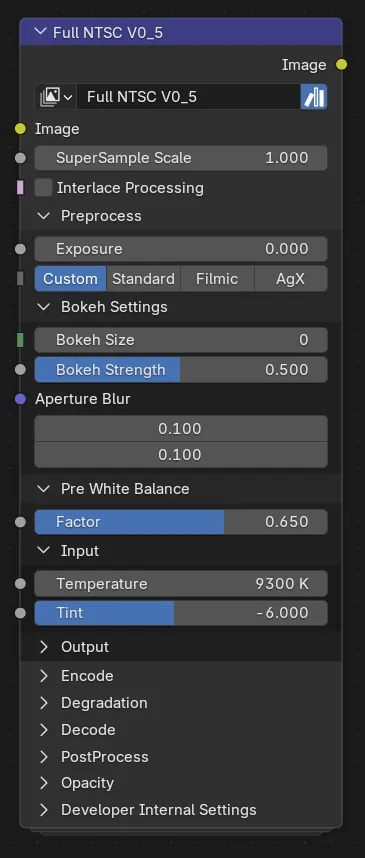
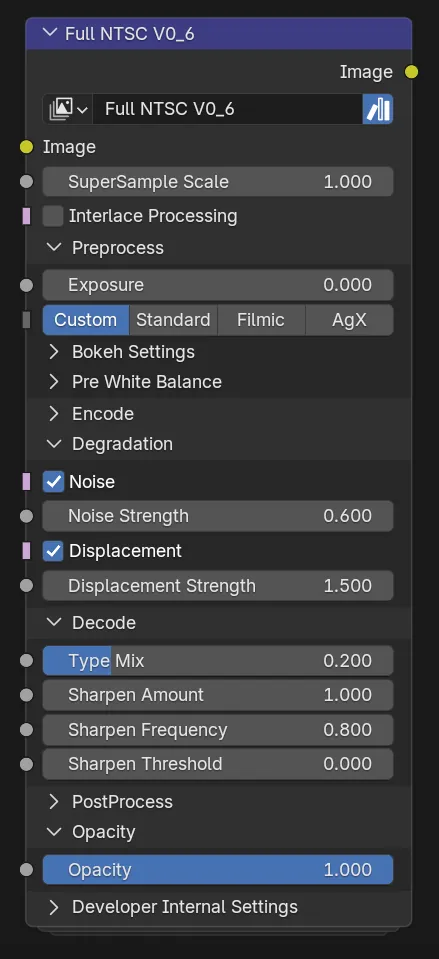
new compositor images part 2

diff --git a/js/data/compositor.js b/js/data/compositor.js
@@ -27,9 +27,30 @@ window.NODEGROUPS.push(
     note: "This nodegroup also exposes an Advanced sub-panel for finer control. Expand it in the node itself; the sockets above cover the top-level controls most users will touch."
   },
   {
+    id: "retro-bloom-advanced",
+    category: "compositor",
+    name: "Retro Bloom Advanced",
+    tagline: "Extended bloom control stack",
+    description: "TEMPLATE — replace with final description. A more advanced bloom nodegroup with finer-grained control than the base Retro Bloom, for shots that need extra dialing-in.",
+    images: {
+      preview: "images/compositor/retro-bloom-advanced-node.webp"
+    },
+    inputs: [
+      { name:"Image", type:"image", desc:"TEMPLATE — the source image or render to bloom." },
+      { name:"Threshold", type:"value", desc:"TEMPLATE — brightness level above which the bloom starts picking up highlights." },
+      { name:"Blend", type:"value", desc:"TEMPLATE — controls the strength of the bloom effect." },
+      { name:"Falloff", type:"value", desc:"TEMPLATE — controls the curve shape of the bloom." },
+      { name:"Bloom Color", type:"color", desc:"TEMPLATE — changes the color of the bloom." }
+    ],
+    outputs: [
+      { name:"Image", type:"image", desc:"TEMPLATE — the source image with the advanced bloom effect applied." }
+    ],
+    note: "Placeholder entry — swap in the real slider names, defaults, and a node preview screenshot once this nodegroup is finalized."
+  },
+  {
     id: "ntsc-filter",
     category: "compositor",
-    name: "Full NTSC V0_5",
+    name: "Full NTSC",
     tagline: "Analog broadcast signal degradation",
     description: "Reproduces the look of a composite NTSC video signal — chroma bleed, luma smear, reduced scanline resolution, aperture blur, and white-balance drift — by resampling the image, running it through an encode/degrade/decode pass, and recompositing. Covers everything from a light broadcast pass to a fully worn-out VHS capture.",
     images: {
@@ -52,24 +73,6 @@ window.NODEGROUPS.push(
       { name:"Image", type:"image", desc:"The processed image with all NTSC artifacts applied, ready to plug into further compositing or the final output." }
     ],
     note: "This nodegroup also exposes deeper sub-panels — Output, Encode, Degradation, Decode, PostProcess, Opacity, and Developer Internal Settings — for finer control. Expand each in the node itself; the sockets above cover the top-level controls most users will touch."
-  },
-  {
-    id: "halation",
-    category: "compositor",
-    name: "Halation",
-    tagline: "Bright-highlight halo bloom",
-    description: "TEMPLATE — replace with final description. Simulates halation: the soft red-orange halo that blooms around bright highlights on film stock, caused by light scattering back through the film base and re-exposing the emulsion.",
-    inputs: [
-      { name:"Image", type:"image", desc:"TEMPLATE — the source image or render to process." },
-      { name:"Threshold", type:"value", desc:"TEMPLATE — brightness level above which highlights start producing halation." },
-      { name:"Intensity", type:"value", desc:"TEMPLATE — strength of the halation glow." },
-      { name:"Size", type:"value", desc:"TEMPLATE — radius of the halo spreading out from bright highlights." },
-      { name:"Tint", type:"color", desc:"TEMPLATE — color of the halation glow, typically a warm red-orange." }
-    ],
-    outputs: [
-      { name:"Image", type:"image", desc:"TEMPLATE — the processed image with halation applied." }
-    ],
-    note: "Placeholder entry — swap in the real slider names, defaults, and a node preview screenshot once this nodegroup is finalized."
   },
   {
     id: "color-vignette",
@@ -183,6 +186,9 @@ window.NODEGROUPS.push(
     name: "Compensate View",
     tagline: "View-transform compensation utility",
     description: "TEMPLATE — replace with final description. A utility nodegroup that compensates for the scene's active view transform, so filters further down the stack see consistent values regardless of whether Standard, Filmic, or AgX is active.",
+    images: {
+      preview: "images/compositor/compensate-view-node.webp"
+    },
     inputs: [
       { name:"Image", type:"image", desc:"TEMPLATE — the source image or render to process." },
       { name:"View Transform", type:"value", desc:"TEMPLATE — which view transform to compensate for (Standard / Filmic / AgX)." },
@@ -190,27 +196,6 @@ window.NODEGROUPS.push(
     ],
     outputs: [
       { name:"Image", type:"image", desc:"TEMPLATE — the compensated output image." }
-    ],
-    note: "Placeholder entry — swap in the real slider names, defaults, and a node preview screenshot once this nodegroup is finalized."
-  },
-  {
-    id: "retro-bloom-advanced",
-    category: "compositor",
-    name: "Retro Bloom Advanced",
-    tagline: "Extended bloom control stack",
-    description: "TEMPLATE — replace with final description. A more advanced bloom nodegroup with finer-grained control than the base Retro Bloom, for shots that need extra dialing-in.",
-    images: {
-      preview: "images/compositor/retro-bloom-advanced-node.webp"
-    },
-    inputs: [
-      { name:"Image", type:"image", desc:"TEMPLATE — the source image or render to bloom." },
-      { name:"Threshold", type:"value", desc:"TEMPLATE — brightness level above which the bloom starts picking up highlights." },
-      { name:"Blend", type:"value", desc:"TEMPLATE — controls the strength of the bloom effect." },
-      { name:"Falloff", type:"value", desc:"TEMPLATE — controls the curve shape of the bloom." },
-      { name:"Bloom Color", type:"color", desc:"TEMPLATE — changes the color of the bloom." }
-    ],
-    outputs: [
-      { name:"Image", type:"image", desc:"TEMPLATE — the source image with the advanced bloom effect applied." }
     ],
     note: "Placeholder entry — swap in the real slider names, defaults, and a node preview screenshot once this nodegroup is finalized."
   },
@@ -231,6 +216,25 @@ window.NODEGROUPS.push(
     ],
     outputs: [
       { name:"Image", type:"image", desc:"TEMPLATE — the processed image with the boost applied." }
+    ],
+    note: "Placeholder entry — swap in the real slider names, defaults, and a node preview screenshot once this nodegroup is finalized."
+  },
+  {
+    id: "basic-color-contrast",
+    category: "compositor",
+    name: "Basic Color Contrast",
+    tagline: "Simple saturation/contrast boost",
+    description: "TEMPLATE — replace with final description. A lightweight nodegroup for punching up color saturation and contrast without a full grading stack.",
+    images: {
+      preview: "images/compositor/basic-color-contrast-node.webp"
+    },
+    inputs: [
+      { name:"Image", type:"image", desc:"TEMPLATE — the source image or render to process." },
+      { name:"Saturation", type:"value", desc:"TEMPLATE — overall color saturation of the image." },
+      { name:"Contrast", type:"value", desc:"TEMPLATE — overall contrast of the image." }
+    ],
+    outputs: [
+      { name:"Image", type:"image", desc:"TEMPLATE — the processed output image." }
     ],
     note: "Placeholder entry — swap in the real slider names, defaults, and a node preview screenshot once this nodegroup is finalized."
   }

diff --git a/js/data/search-index.js b/js/data/search-index.js
@@ -23,22 +23,22 @@ window.SEARCH_INDEX = [
     "href": "compositor.html#retro-bloom"
   },
   {
+    "id": "retro-bloom-advanced",
+    "name": "Retro Bloom Advanced",
+    "category": "compositor",
+    "sub": null,
+    "tagline": "Extended bloom control stack",
+    "description": "TEMPLATE — replace with final description. A more advanced bloom nodegroup with finer-grained control than the base Retro Bloom, for shots that need extra dialing-in.",
+    "href": "compositor.html#retro-bloom-advanced"
+  },
+  {
     "id": "ntsc-filter",
-    "name": "Full NTSC V0_5",
+    "name": "Full NTSC",
     "category": "compositor",
     "sub": null,
     "tagline": "Analog broadcast signal degradation",
     "description": "Reproduces the look of a composite NTSC video signal — chroma bleed, luma smear, reduced scanline resolution, aperture blur, and white-balance drift — by resampling the image, running it through an encode/degrade/decode pass, and recompositing. Covers everything from a light broadcast pass to a fully worn-out VHS capture.",
     "href": "compositor.html#ntsc-filter"
-  },
-  {
-    "id": "halation",
-    "name": "Halation",
-    "category": "compositor",
-    "sub": null,
-    "tagline": "Bright-highlight halo bloom",
-    "description": "TEMPLATE — replace with final description. Simulates halation: the soft red-orange halo that blooms around bright highlights on film stock, caused by light scattering back through the film base and re-exposing the emulsion.",
-    "href": "compositor.html#halation"
   },
   {
     "id": "color-vignette",
@@ -95,15 +95,6 @@ window.SEARCH_INDEX = [
     "href": "compositor.html#compensate-view"
   },
   {
-    "id": "retro-bloom-advanced",
-    "name": "Retro Bloom Advanced",
-    "category": "compositor",
-    "sub": null,
-    "tagline": "Extended bloom control stack",
-    "description": "TEMPLATE — replace with final description. A more advanced bloom nodegroup with finer-grained control than the base Retro Bloom, for shots that need extra dialing-in.",
-    "href": "compositor.html#retro-bloom-advanced"
-  },
-  {
     "id": "napalm-boost",
     "name": "Napalm Boost",
     "category": "compositor",
@@ -111,6 +102,15 @@ window.SEARCH_INDEX = [
     "tagline": "High-contrast heat/fire boost",
     "description": "TEMPLATE — replace with final description. Boosts highlights and warm tones for a hot, high-contrast look, suited to fire, explosions, and other intense-heat effects.",
     "href": "compositor.html#napalm-boost"
+  },
+  {
+    "id": "basic-color-contrast",
+    "name": "Basic Color Contrast",
+    "category": "compositor",
+    "sub": null,
+    "tagline": "Simple saturation/contrast boost",
+    "description": "TEMPLATE — replace with final description. A lightweight nodegroup for punching up color saturation and contrast without a full grading stack.",
+    "href": "compositor.html#basic-color-contrast"
   },
   {
     "id": "smart-bevel-gn",
